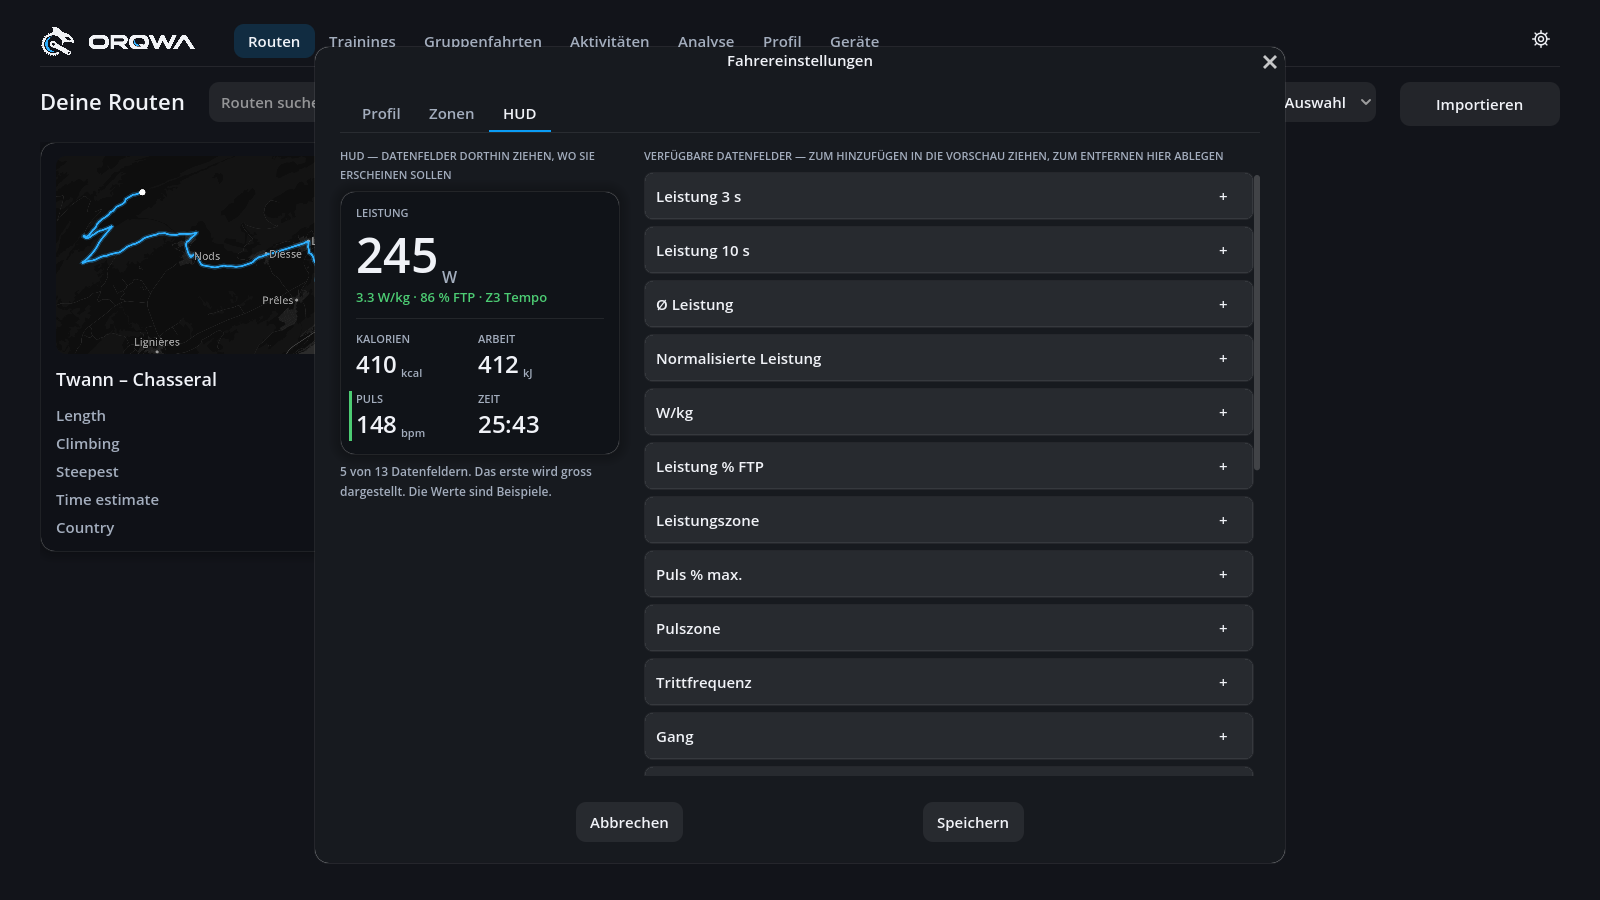
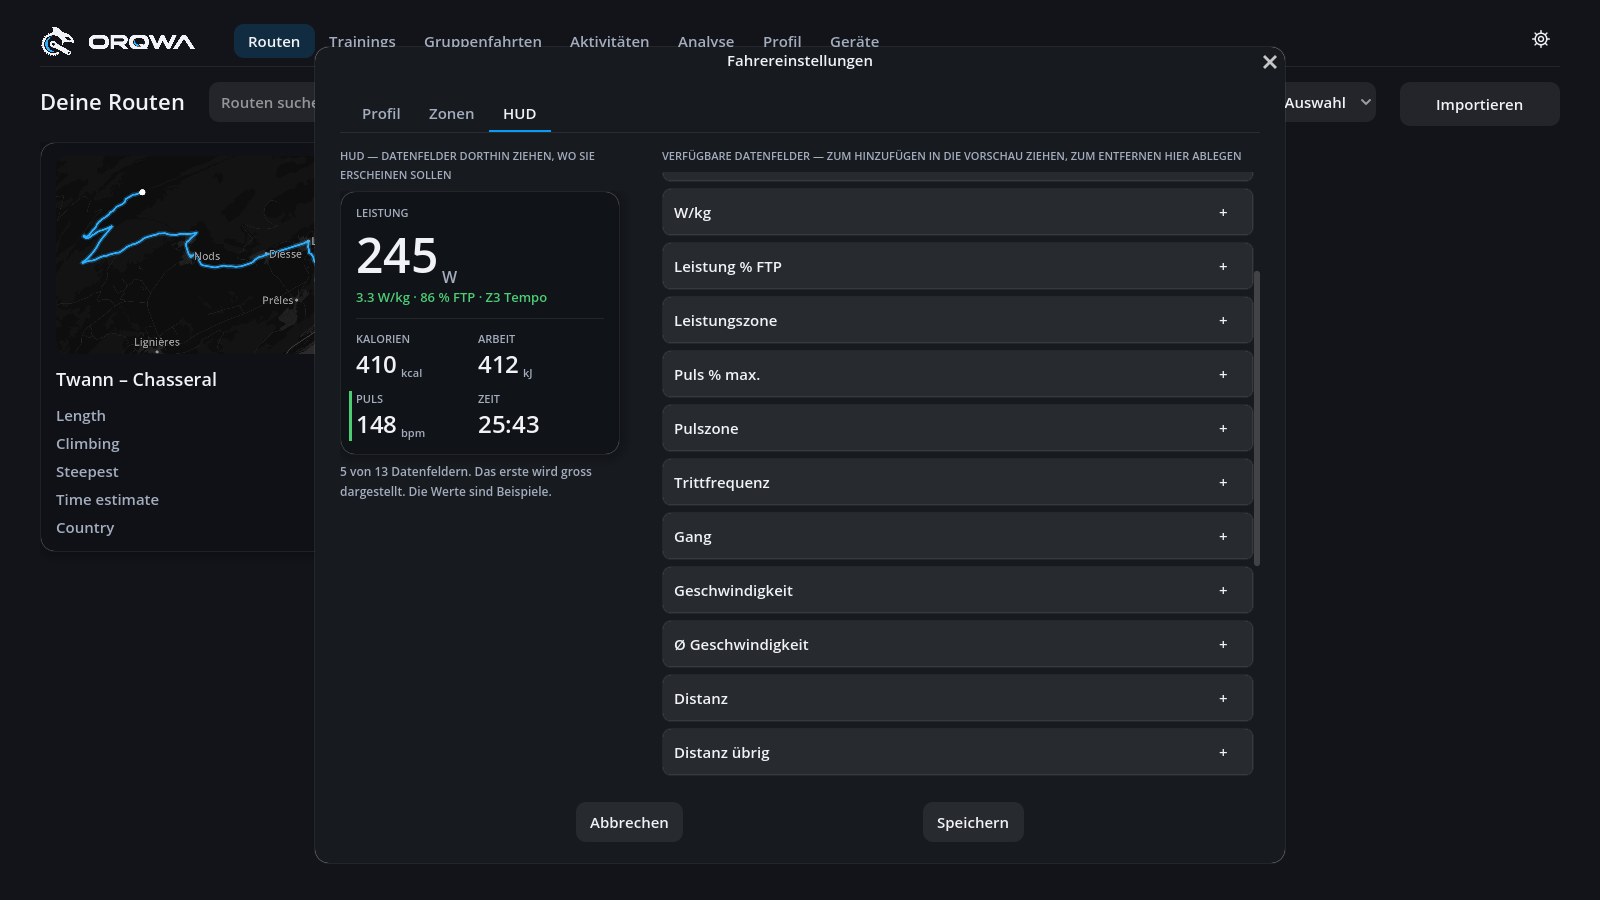
fix: keep settings dialogs inside the application window

diff --git a/docs/REQUIREMENTS.md b/docs/REQUIREMENTS.md
@@ -462,5 +462,11 @@ Click, R75), and a Zwift Click v2 (R77, R96).
 
 | ID | Requirement |
 |---|---|
-| R193 | Extends R23 and R98 (2026-11-03, #475): a rider may choose **Calories**, in **kcal**, in their HUD before or during a ride, including the overlay, independently of metric/imperial units. **Work** remains mechanical work in kJ. Each recorded second uses measured power first, including zero watts, then heart rate with explicitly supplied optional age, sex and weight, then a rough effort the rider may opt into. Age and sex are independent of the avatar; no effort is assumed by default. Without enough information show `--`; tooltips name the source and disclose unestimated intervals. Pauses add no calories and changing sensors never counts a second twice. Rider settings remember the optional inputs and apply changes to the estimate so far. All calculation is in Rust, with no extra dependency or internet access. See ADR 0038. |
-| R194 | Refines R193 (2026-11-03, #475): **Age** advances automatically at the start of each local calendar year using an approximate birth year inferred when it is entered; no birthday is requested. The field stays **Age**, with the New Year behaviour explained on hover. Reopening settings or the app shows the current age, a live or paused ride follows the new year, and saving other settings does not reset the annual increase. An explicit age edit takes effect in the year it is entered; 0 clears it and an unset age stays unset. Previously saved fixed ages are carried over. |
+| R197 | Extends R23 and R98 (2026-11-03, #475): a rider may choose **Calories**, in **kcal**, in their HUD before or during a ride, including the overlay, independently of metric/imperial units. **Work** remains mechanical work in kJ. Each recorded second uses measured power first, including zero watts, then heart rate with explicitly supplied optional age, sex and weight, then a rough effort the rider may opt into. Age and sex are independent of the avatar; no effort is assumed by default. Without enough information show `--`; tooltips name the source and disclose unestimated intervals. Pauses add no calories and changing sensors never counts a second twice. Rider settings remember the optional inputs and apply changes to the estimate so far. All calculation is in Rust, with no extra dependency or internet access. See ADR 0038. |
+| R198 | Refines R197 (2026-11-03, #475): **Age** advances automatically at the start of each local calendar year using an approximate birth year inferred when it is entered; no birthday is requested. The field stays **Age**, with the New Year behaviour explained on hover. Reopening settings or the app shows the current age, a live or paused ride follows the new year, and saving other settings does not reset the annual increase. An explicit age edit takes effect in the year it is entered; 0 clears it and an unset age stays unset. Previously saved fixed ages are carried over. |
+
+## Settings dialog bounds
+
+| ID | Requirement |
+|---|---|
+| R199 | Refines R94 (2026-11-03): settings dialogs, including their title and action buttons, stay inside the application window on their first opening, after switching tabs or reflowing content, and while the application window is resized. A temporary content minimum must not enlarge a dialog beyond those bounds. Tall content scrolls, including either column of the HUD editor with all 13 figures selected; available figures stay reachable with the mouse wheel. |

diff --git a/docs/PLAN.md b/docs/PLAN.md
@@ -206,11 +206,13 @@ Built in rideable steps:
   like the power line (R182)
 - [x] History & analysis: FIT + JSON summary per ride, NP / IF / TSS / kJ, charts, time in
   zones
-- [x] Calories in the HUD (R193, #475, ADR 0038): a separate kcal figure, powered by measured
+- [x] Calories in the HUD (R197, #475, ADR 0038): a separate kcal figure, powered by measured
   work, optional heart-rate inputs or an explicitly assumed effort; short caption, method
   and missing-interval details in tooltips, per-rider selection and the overlay
-  - [x] Age advances each local New Year from an inferred birth year (R194), with existing
+  - [x] Age advances each local New Year from an inferred birth year (R198), with existing
     ages carried over and an unchanged settings form preserving its age reference year
+  - [x] Wheel/pan reach the last available figure and touch swipes preserve tap-to-add;
+    the full preview scrolls when needed in a small window (R51, R94)
 - [x] The history index of ADR 0002 (R79, #262): SQLite in the cache directory, built from
   the ride files and following them, so hundreds of rides cost one read
 - [x] Climbs (auto-detected, categorised) and personal records per route and climb
@@ -431,6 +433,8 @@ Built in rideable steps:
   - [x] The interface at the screen's scale rather than stretched to the window (R94): a
     smaller window shows less, not smaller text; the layouts reflow down to 1024 × 640
     (`ReflowGrid`, a wrapping gallery toolbar, scrolling pages) and dialogs fit the window
+  - [x] Dialog bounds persist through first-open layout, tab changes and application resizing;
+    their titles and action buttons stay inside the application window (R199)
   - [x] Pages that scroll keep their scroll bar's room: the gallery no longer reflows without
     end at some widths, which crashed the app when macOS zoomed its window
   - [x] The course's ride options and growing build log scroll within their panel, with Ride

diff --git a/docs/adr/0022-interface-scale.md b/docs/adr/0022-interface-scale.md
@@ -108,3 +108,20 @@ includes a long climb list and build log in English and German (R53, R94).
 
 [Review capture at 1024 × 640](../images/issues/android-course-overflow.png), with both columns
 scrolled to their last entries while Ride remains visible.
+
+## Amendment 2026-11-03: persistent dialog bounds
+
+Reapplying the requested size after one frame did not constrain later layout passes. Opening
+Rider settings or Ride settings for the first time, then switching tabs, could leave a dialog
+taller than the application, with its content no longer needing a scrollbar. Reopening it
+appeared to fix the problem because the content had already measured its width.
+
+`UiScale.popup` now sets a maximum before opening the dialog, leaving room for its title and
+margins. A child guard keeps the maximum current when the parent viewport resizes, caps an
+explicit minimum when needed, and keeps the dialog's position inside those bounds. Signal
+connections end with the dialog. The HUD preview can scroll independently of the available
+figures when its complete layout is taller than the remaining space (R199).
+
+The window checks cover a temporary oversized content minimum, resizing while open, and every
+settings tab in English and German, including all 13 HUD figures. Input checks reach the last
+available figure with the wheel and add it through window input; touch swipes still cancel taps.

diff --git a/docs/adr/0038-calories.md b/docs/adr/0038-calories.md
@@ -2,7 +2,7 @@
 
 - Status: accepted
 - Date: 2026-11-03
-- Requirements: R193–R194; issue #475
+- Requirements: R197–R198; issue #475
 
 ## Context
 
@@ -93,3 +93,5 @@ tests cover old files, unknown optional choices, independent avatars and round t
 checks cover the short caption, kcal in either distance unit system, unavailable values,
 tooltips, HUD selection and profile inputs across the Rust boundary. Screenshot fixtures
 show the tile and its setup in English and German without generating scenery.
+Input checks exercise scrolling over available figures and their + buttons, reaching and
+adding the last figure with the wheel, and swiping without accidentally adding a figure.

diff --git a/docs/screenshots.md b/docs/screenshots.md
@@ -39,6 +39,10 @@ same licence; the footage is used only in documentation.
 |---|---|
 | ![Calories and Work](images/calories/hud-en.png) | ![Age advances each New Year](images/calories/age-en.png) |
 
+| Full HUD in a small window | German |
+|---|---|
+| ![Both HUD columns scrolled at 1024 × 640](images/calories/hud-full-small-en.png) | ![Both HUD columns in German](images/calories/hud-full-small-de.png) |
+
 ## Cities and woodland
 
 The same woodland view on Low and Ultra graphics.
